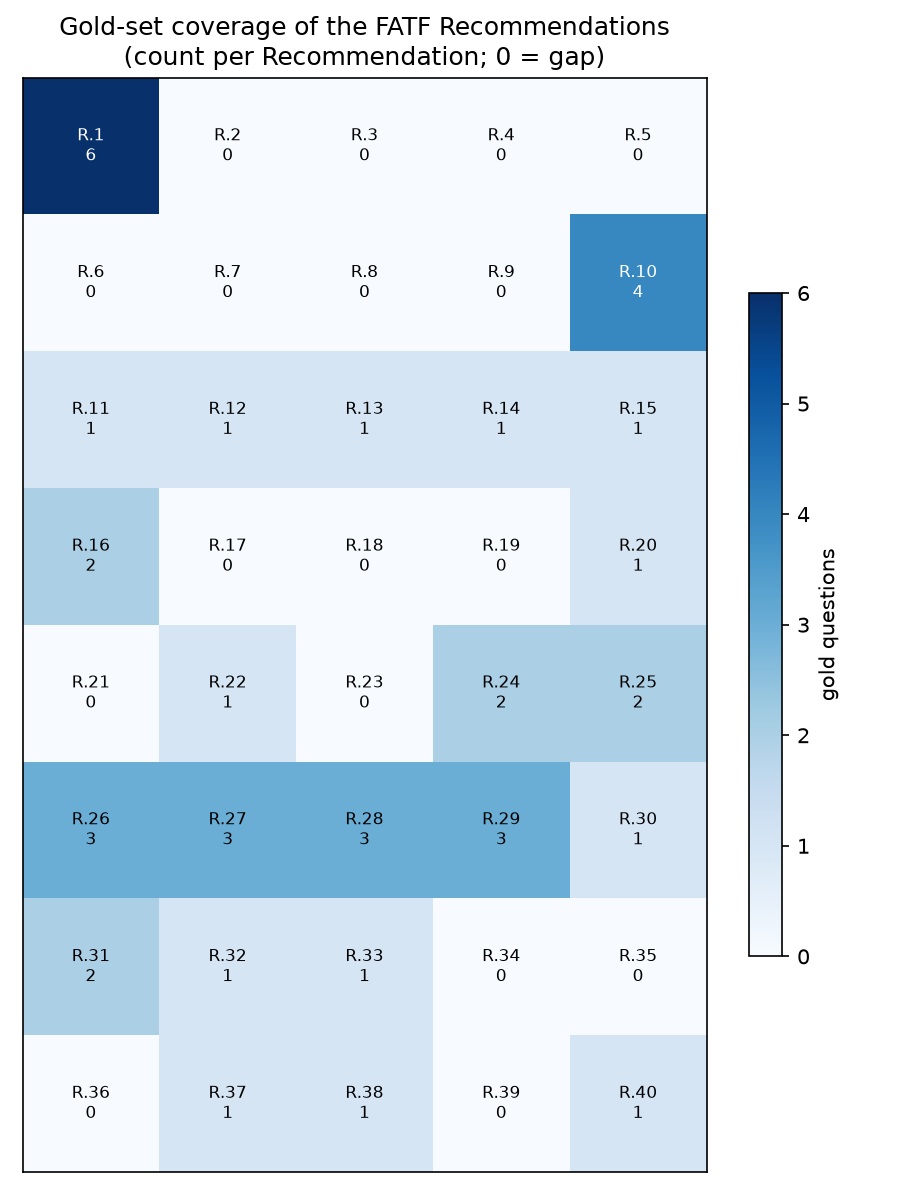
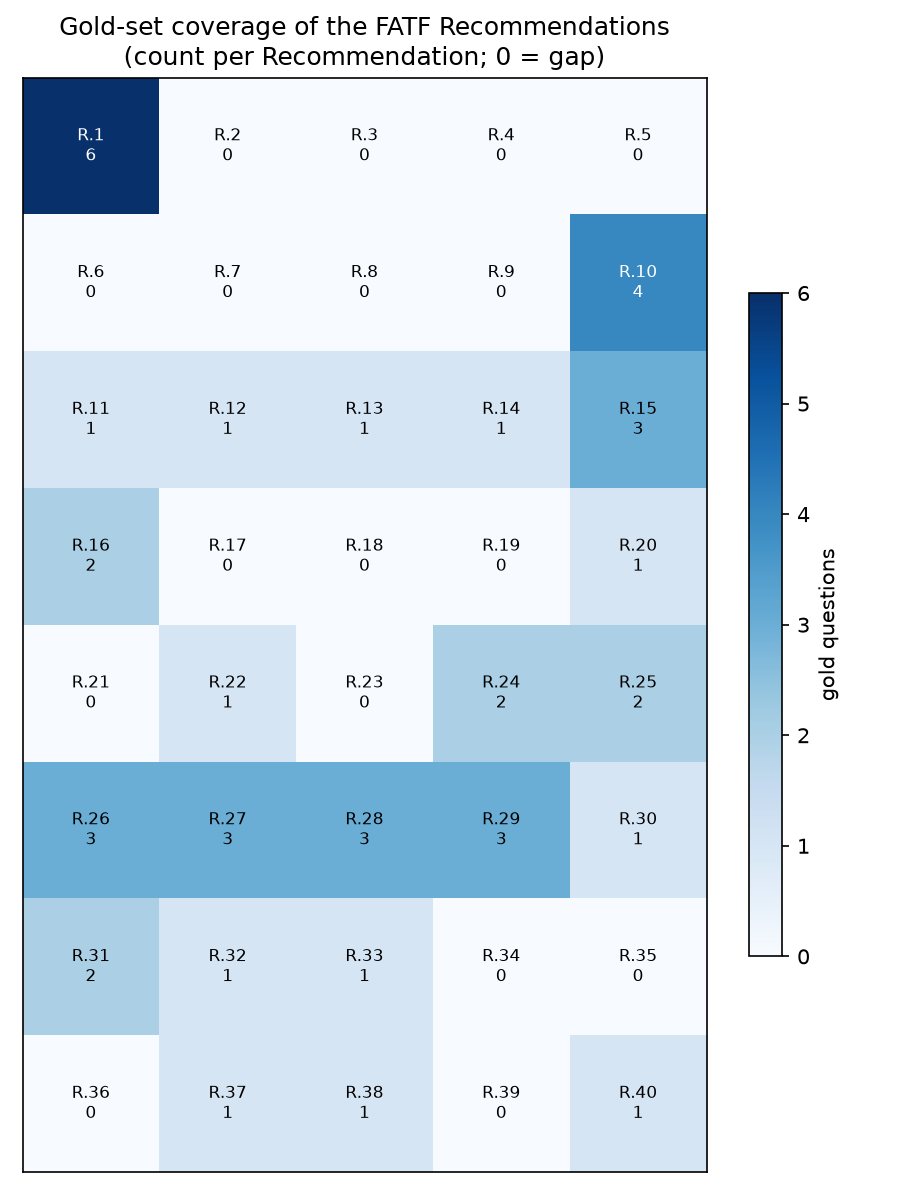
Add virtual-asset gold questions and refresh evaluation results

Changed region(s): [[0.6222, 0.2775, 0.8089, 0.4317]]

diff --git a/reports/eval_report.md b/reports/eval_report.md
@@ -4,21 +4,21 @@
 - Generator: `openrouter:meta-llama/llama-3.3-70b-instruct`
 - Judge: `claude-haiku-4-5` (rubric v1.0)
 - Retrieval k = 8, abstain threshold = 0.66
-- Gold set: 35 items (30 answerable, 5 out-of-scope)
+- Gold set: 37 items (32 answerable, 5 out-of-scope)
 
 ## Headline metrics
 
 | Metric | Value |
 |---|---|
-| Retrieval recall@8 | 0.967 |
-| Retrieval MRR | 0.62 |
-| Citation hit rate (cites a correct page) | 0.733 |
-| Citation recall (strict, all pages) | 0.558 |
-| Citation precision | 0.339 |
-| Answer faithfulness (LLM judge) | 0.817 |
+| Retrieval recall@8 | 0.969 |
+| Retrieval MRR | 0.644 |
+| Citation hit rate (cites a correct page) | 0.75 |
+| Citation recall (strict, all pages) | 0.57 |
+| Citation precision | 0.365 |
+| Answer faithfulness (LLM judge) | 0.828 |
 | Out-of-scope handled (no fabrication) | 0.9 |
 | False-abstention rate (answerable) | 0.0 |
-| Lexical token-F1 (secondary) | 0.136 |
+| Lexical token-F1 (secondary) | 0.139 |
 | Exact match (footnote, ~0 expected) | 0.0 |
 
 Faithfulness (the LLM judge) is the primary answer-quality metric. Citation hit rate (does the answer cite at least one correct page) is the primary citation metric; strict recall is shown too but is harsh when a Recommendation spans several pages. Token-F1 is a secondary lexical-overlap proxy that penalizes paraphrase; exact match is near zero for generative answers by design and is not a quality signal.
@@ -27,8 +27,8 @@ Faithfulness (the LLM judge) is the primary answer-quality metric. Citation hit 
 
 | Difficulty | N | recall@k | citation recall | faithfulness |
 |---|---|---|---|---|
-| easy | 9 | 1.0 | 0.537 | 0.944 |
-| medium | 17 | 0.941 | 0.603 | 0.794 |
+| easy | 10 | 1.0 | 0.583 | 0.95 |
+| medium | 18 | 0.944 | 0.597 | 0.806 |
 | hard | 4 | 1.0 | 0.416 | 0.625 |
 
 ## Coverage
@@ -36,7 +36,7 @@ Faithfulness (the LLM judge) is the primary answer-quality metric. Citation hit 
 ```
 Recommendation coverage: 23/40 touched by the gold set.
 
-Covered: R.1(6), R.10(4), R.11(1), R.12(1), R.13(1), R.14(1), R.15(1), R.16(2), R.20(1), R.22(1), R.24(2), R.25(2), R.26(3), R.27(3), R.28(3), R.29(3), R.30(1), R.31(2), R.32(1), R.33(1), R.37(1), R.38(1), R.40(1)
+Covered: R.1(6), R.10(4), R.11(1), R.12(1), R.13(1), R.14(1), R.15(3), R.16(2), R.20(1), R.22(1), R.24(2), R.25(2), R.26(3), R.27(3), R.28(3), R.29(3), R.30(1), R.31(2), R.32(1), R.33(1), R.37(1), R.38(1), R.40(1)
 
 Gaps: R.2, R.3, R.4, R.5, R.6, R.7, R.8, R.9, R.17, R.18, R.19, R.21, R.23, R.34, R.35, R.36, R.39
 ```

diff --git a/README.md b/README.md
@@ -46,7 +46,7 @@ FATF corpus (PDF)
 
 ## Evaluation
 
-The system is scored against a hand-written gold set of 35 questions: 30 answerable (easy, medium, and hard, including multi-Recommendation synthesis), some of them false-premise "refutation" questions the documents can correct, and 5 out-of-scope questions that should be declined. Each answerable item is labeled with its source Recommendation, difficulty, and expected page(s); `expected_pages` include the Recommendation statement and its Interpretive Note where both contain the answer.
+The system is scored against a hand-written gold set of 37 questions: 32 answerable (easy, medium, and hard, including multi-Recommendation synthesis), some of them false-premise "refutation" questions the documents can correct, and 5 out-of-scope questions that should be declined. Each answerable item is labeled with its source Recommendation, difficulty, and expected page(s); `expected_pages` include the Recommendation statement and its Interpretive Note where both contain the answer.
 
 Metrics:
 - Retrieval: recall@8 (a correct page in the top 8) and MRR, against the expected pages.
@@ -54,20 +54,20 @@ Metrics:
 - Citations: hit rate (does the answer cite at least one correct page) as the primary signal, with strict page-level recall and precision as secondary.
 - Out-of-scope: whether the system declines without fabricating.
 
-Results (35-item gold set; indicative, not a benchmark):
+Results (37-item gold set; indicative, not a benchmark):
 
 | Metric | Value |
 |---|---|
 | Retrieval recall@8 | 0.97 |
-| Retrieval MRR | 0.62 |
-| Answer faithfulness (LLM judge) | 0.82 |
-| Citation hit rate | 0.73 |
-| Citation recall (strict) | 0.56 |
-| Citation precision | 0.34 |
+| Retrieval MRR | 0.64 |
+| Answer faithfulness (LLM judge) | 0.83 |
+| Citation hit rate | 0.75 |
+| Citation recall (strict) | 0.57 |
+| Citation precision | 0.37 |
 | Out-of-scope handled (no fabrication) | 0.90 |
 | False-abstention rate | 0.00 |
 
-Across all 30 answerable questions the judge found zero unfaithful answers, so there were no hallucinations. The faithfulness score below 1.0 reflects minor over-elaboration graded "partial," not invented facts.
+Across all 32 answerable questions the judge found zero unfaithful answers, so there were no hallucinations. The faithfulness score below 1.0 reflects minor over-elaboration graded "partial," not invented facts.
 
 Configuration: `bge-small-en-v1.5` embeddings, Llama 3.3 70B (via OpenRouter) generation, Haiku 4.5 judge, k = 8, abstain threshold 0.66 (tuned on the gold set with `tune_threshold.py`).
 